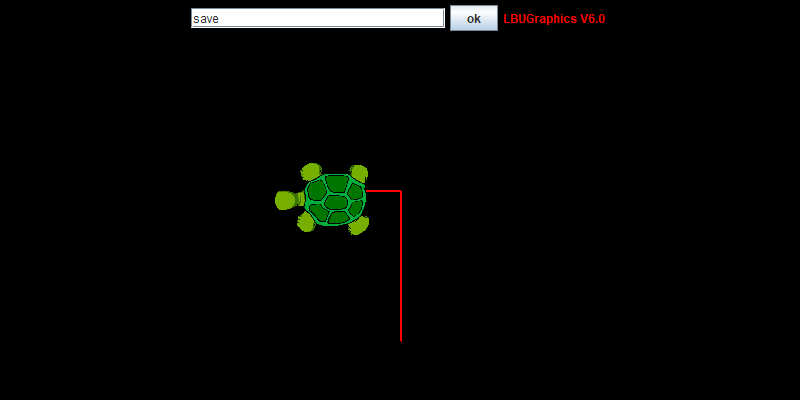
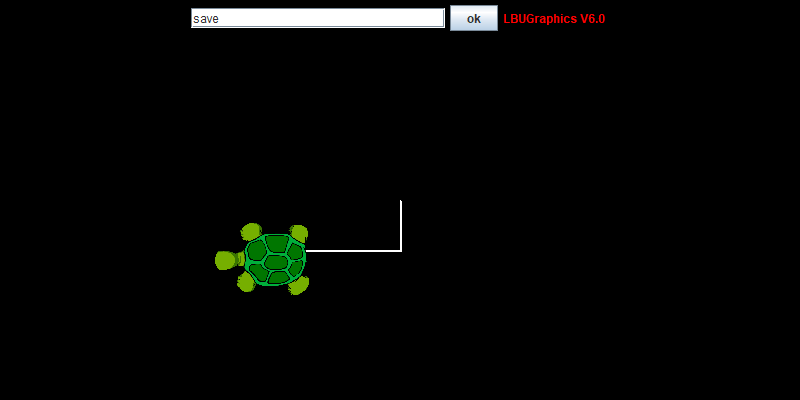
Assignment Completion

Changed region(s): [[0.25, 0.39, 0.5, 0.75]]

diff --git a/AssignmentTurtleGraphicsProgram/mainClass.java b/AssignmentTurtleGraphicsProgram/mainClass.java
@@ -38,7 +38,7 @@ public class mainClass extends LBUGraphics {
             backgroundImage = ImageIO.read(new File(path));
             repaint();
         } catch (IOException i) {
-            System.out.println("Image could not be loaded" + i.getMessage());
+            System.out.println("Image could not be loaded");
         }
     }
 
@@ -54,18 +54,10 @@ public class mainClass extends LBUGraphics {
     public void processCommand(String command)      //this method must be provided because LBUGraphics will call it when it's JTextField is used
     {
 
-        String[] part = command.split(" ");
-        String inputCommand = part[0];
+        String[] part = command.split("\\s+", 2);
+        String inputCommand = part[0].toLowerCase();
         int distance = 50;
-
-        if (part.length > 1) {
-            try {
-                distance = Integer.parseInt(part[1]);
-            } catch (NumberFormatException e) {
-                System.out.println("Invalid distance, please try again");
-                return;
-            }
-        }
+        String parameter = part.length > 1 ? part[1] : "";
 
         switch (inputCommand) {
             case "about":
@@ -89,6 +81,13 @@ public class mainClass extends LBUGraphics {
                     forward(90);
                 } else if (distance > 1) {
                     forward(distance);
+                } else if (!parameter.isEmpty()) {
+                    try {
+                        distance = Integer.parseInt(parameter);
+                    } catch (NumberFormatException e) {
+                        System.out.println("Invalid distance, please try again");
+                        return;
+                    }
                 }
                 cmdHistoryFunction.saveCmdToLog(inputCommand);
                 break;
@@ -159,31 +158,29 @@ public class mainClass extends LBUGraphics {
                         try {
                             saveFunction.saveImage(mainClass.canva, "TGFile.png");
                             System.out.println("Image Saved");
-                        } catch (IOException i) {
-                            System.out.println("Failed to save image: " + i.getMessage());
-                            cmdHistoryFunction.saveCmdToLog(inputCommand);
+                        } catch (IOException e) {
+                            System.out.println("Failed to save image");
                         }
 
                     } else {
                         System.out.println("Image Not Saved, DEBUG INFO: " + width + "x" + height);
-                        cmdHistoryFunction.saveCmdToLog(inputCommand);
-                        break;
-
                     }
-
-                    //String parameter is the text typed into the LBUGraphics JTextfield
-                    //lands here if return was pressed or "ok" JButton clicked
-
-                    //TO DO
-
+                    cmdHistoryFunction.saveCmdToLog(inputCommand);
                 }
                 break;
+            //String parameter is the text typed into the LBUGraphics JTextfield
+            //lands here if return was pressed or "ok" JButton clicked
+
+            //TO DO
 
             case "load":
-                if (part.length > 1) {
-                    String filename = part[1];
-                    String path = "images/" + filename;
-                    mainClass.canva.loadBackground(path);
+                if (!parameter.isEmpty()) {
+                    BufferedImage loadedImage = loadImageFunction.loadImageFunction(parameter);
+                    if (loadedImage != null) {
+                        backgroundImage = loadedImage;
+                        repaint();
+                    }
+
                 } else {
                     System.out.println("Add a file name e.g. turtle1.PNG");
                 }
@@ -200,8 +197,6 @@ public class mainClass extends LBUGraphics {
                 }
 
                 break;
-
-
 
             default:
                 System.out.println("TERMINAL " + "Unknown command: " + command + " Please try again.");

diff --git a/AssignmentTurtleGraphicsProgram/loadImageFunction.java b/AssignmentTurtleGraphicsProgram/loadImageFunction.java
@@ -1,0 +1,26 @@
+import javax.imageio.ImageIO;
+import java.awt.image.BufferedImage;
+import java.io.IOException;
+import java.net.URL;
+
+public class loadImageFunction {
+
+    public static BufferedImage loadImageFunction(String filename) {
+        String resourcePath = "C:/Users/ddunn/IdeaProjects/oop-portfolio-2025-ddunne008/images" + filename;
+        try {
+            URL resource = loadImageFunction.class.getResource("/" + resourcePath);
+
+            if (resource == null) {
+                System.out.println("The resource is not found");
+                return null;
+            }
+            BufferedImage background = ImageIO.read(resource);
+            System.out.println("Image Loaded");
+            return background;
+        } catch (IOException e) {
+            System.out.println("Error loading image");
+            e.printStackTrace();
+            return null;
+        }
+    }
+}

diff --git a/AssignmentTurtleGraphicsProgram/saveFunction.java b/AssignmentTurtleGraphicsProgram/saveFunction.java
@@ -20,7 +20,7 @@ public class saveFunction {
         comp.paint(graphics);
         graphics.dispose();
 
-        File dir = new File("images"); // This code created a directory for images so it can be saved here
+        File dir = new File("C:/Users/ddunn/IdeaProjects/oop-portfolio-2025-ddunne008/images"); // This code created a directory for images so it can be saved here
         if (!dir.exists()) {
             dir.mkdir();
         }

diff --git a/README.md b/README.md
@@ -69,7 +69,7 @@ results for each exercise must also be documented in results.md is the relevant 
 **committed by 5th May 10am**\
 1 Basic Application           -- completed ontime\
 2 Command Processing          -- completed ontime\
-3 Validating Commands        -- to do\
+3 Validating Commands        -- completed ontime\
 4 Loading and Saving          -- to do\
 5 Extending OOPGraphics library    -- to do\
 
